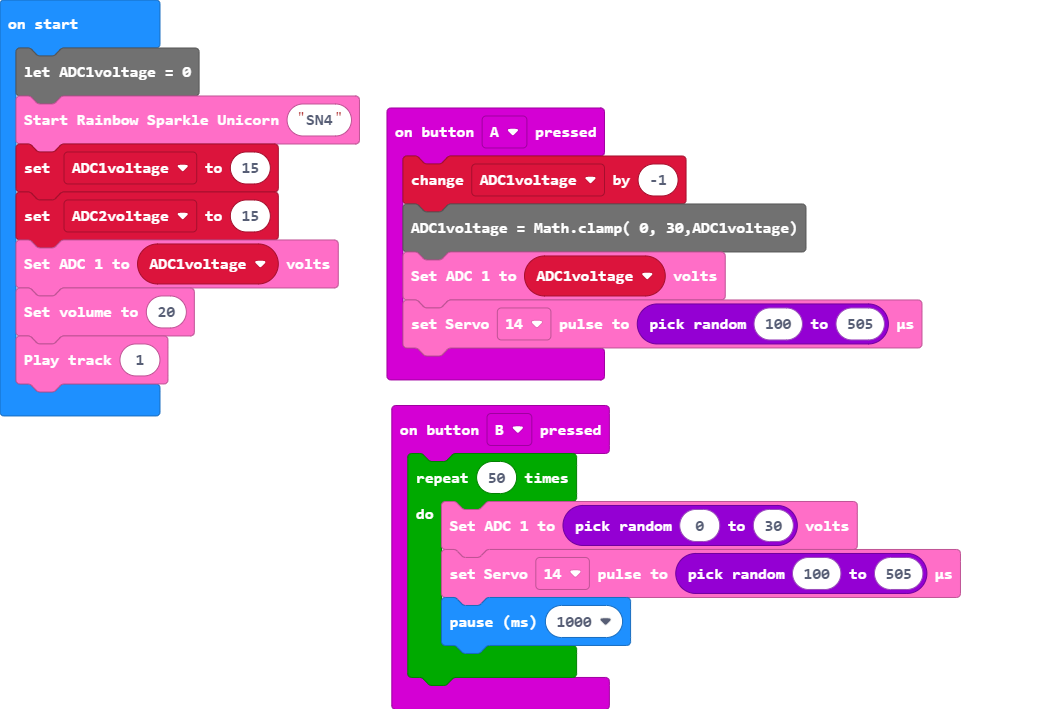
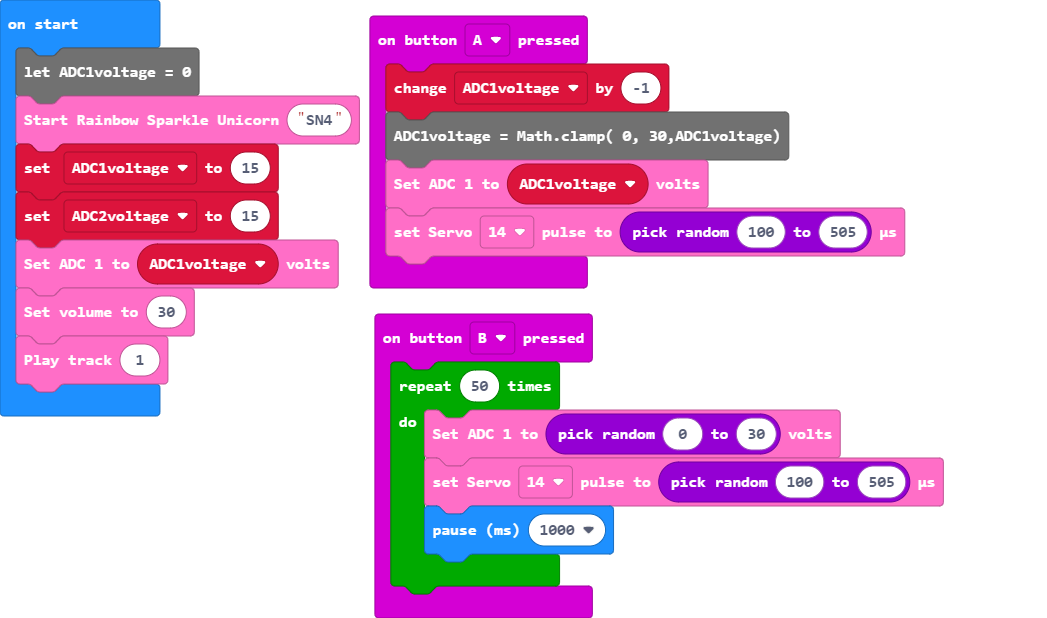
Update pxt.json, main.blocks, main.ts

diff --git a/main.ts b/main.ts
@@ -16,5 +16,5 @@ RainbowSparkleUnicorn.start("SN4")
 ADC1voltage = 15
 let ADC2voltage = 15
 RainbowSparkleUnicorn.ADC1(ADC1voltage)
-RainbowSparkleUnicorn.setVolume(20)
+RainbowSparkleUnicorn.setVolume(30)
 RainbowSparkleUnicorn.playTrack(1)
